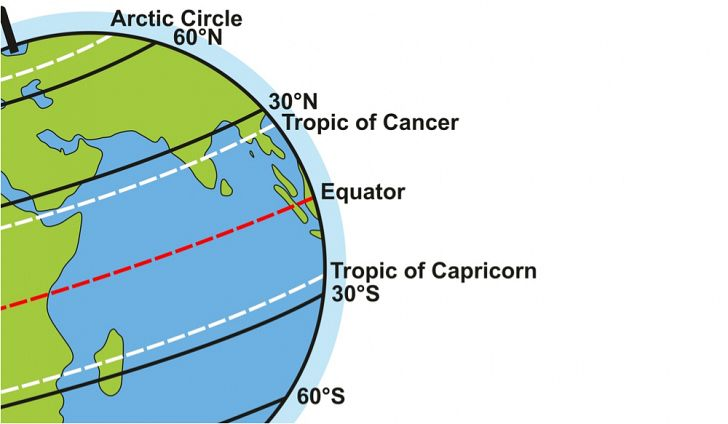
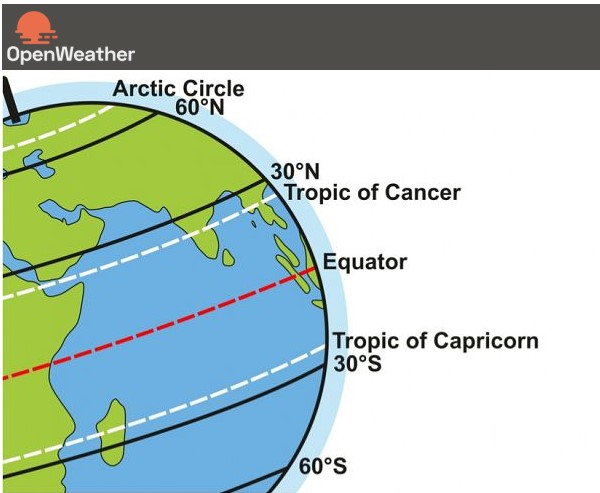
third commit
fixing spacing issues in index page, adding table-hover to data page, fixed arrows in comparison table, created a custom image for index page

diff --git a/index.html b/index.html
@@ -59,17 +59,17 @@
       <div class="col-lg-7 col-md-12">
         <!-- Left box  -->
         <div class="box">
-          <h3 class="title">Summary: Latitude vs. ---→</h3>
+          <h3 class="title">Summary: Latitude vs. →</h3>
           <hr>
           <img src="images/earth.jpg" class="vizualization rounded float-left" alt="Mother Earth">
-          <p>The purpose of this project was to analyze how weather changes as you approach the equator. To answer that 
-              question I created a Python script to visualize the weather of 500+ cities across the world of varying 
-              distance from the equator. The data was sourced from the the OpenWeatherMap API.</p>
+          <p>&nbspThe purpose of this project was to &nbspanalyze how weather changes as you approach the equator. To answer that
+            question I created a Python script to visualize the weather of 500+ cities across the world of varying
+            distance from the equator. The data was sourced from the the OpenWeatherMap API.</p>
           <p>After compiling the dataset, visuals were created using the Python library Matplotlib. This allowed me
-              to visually display the data with various weather characteristics vs. Latitude (Max Temperature, 
-              Humidity, Cloudiness, and Wind Speed). This web dashboard provides the source data and 
-              visualizations that were created in analyzing the random city weather data and descriptions of 
-              any trends and correlations encountered. Thanks for visiting!</p>
+            to visually display the data with various weather characteristics vs. Latitude (Max Temperature, 
+            Humidity, Cloudiness, and Wind Speed). This web dashboard provides the source data and 
+            visualizations that were created in analyzing the random city weather data and descriptions of 
+            any trends and correlations encountered. Thanks for visiting!</p>
         </div>
       </div>
       <div class="col-lg-5 col-md-12">

diff --git a/data.html b/data.html
@@ -55,12 +55,12 @@
   <!-- Content Section -->
   <div class="container">
     <div class="box">
-      <h3 class="title">Data</h3>
+      <h3 class="title">Raw Weather Data</h3>
       <hr>
       <p>The table below includes all of the weather data from the random 500+ cities that were used in the analysis for this project.</p>
       <br>
-      <div class="table-responsive" style="overflow-x:auto; overflow-y:auto; max-height:470px; max-width: auto;">
-        <table class="table table-striped">
+      <div class="table-responsive" style="overflow-x:auto; overflow-y:auto; max-height:650px; max-width: auto;">
+        <table class="table table-striped table-hover">
             <thead>
               <tr style="text-align: center;">
                 <th></th>

diff --git a/comparison.html b/comparison.html
@@ -58,7 +58,7 @@
       <div>
         <!-- Left box  -->
         <div class="box">
-          <h3 class="title">Summary: Latitude vs. ---→</h3>
+          <h3 class="title">Summary: Latitude vs. ↓</h3>
           <hr>
           <p>Click any visual to render full size and read analysis.</p>
           <div class="container" style="padding-bottom: 40px;">
